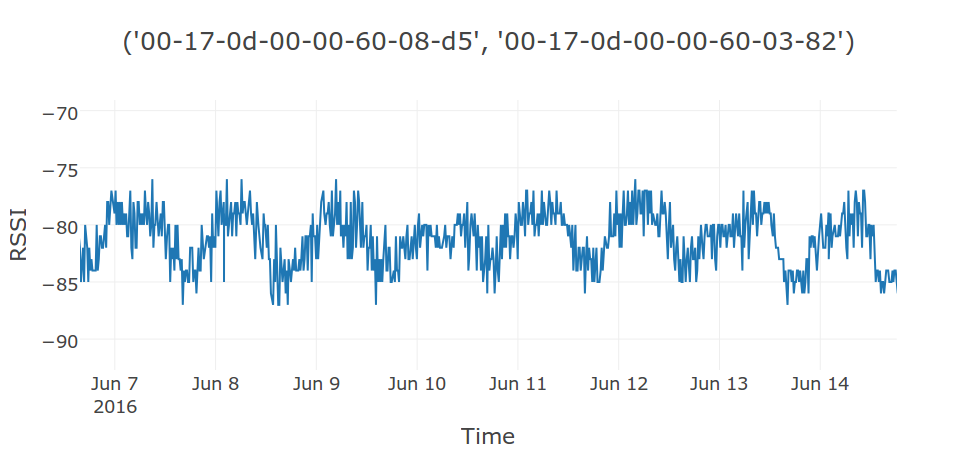
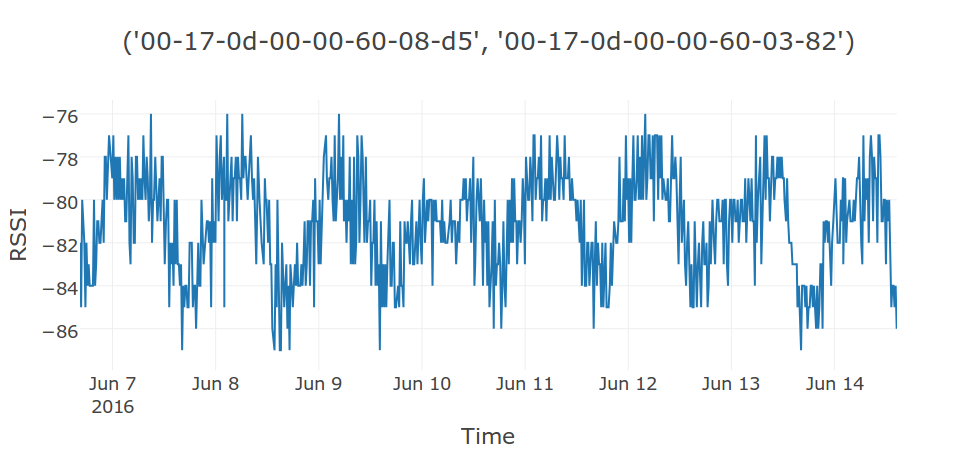
adding images and lorem

diff --git a/16chants.tex b/16chants.tex
@@ -14,7 +14,7 @@
 % reviews
 \newcommand{\thomas}[1]             {\textcolor{blue}{[Thomas] #1}}
 \newcommand{\javier}[1]             {\textcolor{purple}{[Javier] #1}}
-\newcommand{\keoma}[1]              {\textcolor{green}{[Keoma] #1}}
+\newcommand{\keoma}[1]              {\textcolor{cyan}{[Keoma] #1}}
 \newcommand{\remy}[1]               {\textcolor{yellow}{[Remy] #1}}
 \newcommand{\jonathan}[1]           {\textcolor{pink}{[Jonathan] #1}}
 
@@ -136,6 +136,7 @@ Each device sends one type of Health Report every 5~min making the complete set 
 %------------------------------------------------------------------------------
 \subsection{HR\_DEVICE}
 
+\keoma{should we actually put all the technical details here ?}
 An HR\_DEVICE message contains the following fields:
 \begin{tabular}{l|p{6cm}}
     field name      & description\\
@@ -186,7 +187,7 @@ That is, average RSSI can be 8~dBm better during the night than during the day.
 \begin{figure}
     \centering
     \includegraphics[width=\columnwidth]{periodic_rssi}
-    \caption{The average RSSI value of node 60-03-82 as received by mote 60-08-d5 over a week.}
+    \caption{The average RSSI value of node 60-03-82 as received by mote 60-08-d5 over a week. A clear day periodicity can be observed.}
     \label{fig:periodic_rssi}
 \end{figure}
 
@@ -202,13 +203,30 @@ This variation is low considering that we have 15~min sampling period.
 \begin{figure}
     \centering
     \includegraphics[width=\columnwidth]{rssi_variation}
-    \caption{The variation of average RSSI value of node 60-03-82 as received by mote 60-08-d5 over a week.}
+    \caption{The variation of average RSSI value of node 60-03-82 as received by mote 60-08-d5 over a week. Variation are small considering the 15~min sampling rate.}
     \label{fig:rssi_variation}
+\end{figure}
+
+%------------------------------------------------------------------------------
+\subsection{RSSI and Distance}
+
+\lorem
+
+\begin{figure}
+    \centering
+    \includegraphics[width=\columnwidth]{fake}
+    \caption{The famous Pister-Hack model here}
+    \label{fig:rssi_dist}
 \end{figure}
 
 %==============================================================================
 \section{PDR}
 \label{sec:pdr}
+
+% intro
+
+% PDR periodicity/patterns
+\lorem
 
 \begin{figure}
     \centering
@@ -216,6 +234,10 @@ This variation is low considering that we have 15~min sampling period.
     \caption{The PDR when node 60-08-d5 sends data to 60-03-82 over a week.}
     \label{fig:periodic_pdr}
 \end{figure}
+
+% PDR and distance
+
+\lorem
 
 \begin{figure}
     \centering
@@ -236,12 +258,23 @@ This variation is low considering that we have 15~min sampling period.
 
 \lorem
 
-%\begin{figure}
-%    \centering
-%    \includegraphics[width=\columnwidth]{periodic_rssi}
-%    \caption{The RSSI value of node 0f-66 as received by mote 03-82 over a week.}
-%    \label{fig:topology}
-%\end{figure}
+\begin{figure}
+    \centering
+    \includegraphics[width=\columnwidth]{fake}
+    \caption{Network churn here}
+    \label{fig:net_churn}
+\end{figure}
+
+% network load distribution
+
+\lorem
+
+\begin{figure}
+    \centering
+    \includegraphics[width=\columnwidth]{fake}
+    \caption{Load distribution here}
+    \label{fig:net_flows}
+\end{figure}
 
 %==============================================================================
 \section{Reliability}
@@ -251,17 +284,17 @@ This variation is low considering that we have 15~min sampling period.
 
 \lorem
 
-%\begin{figure}
-%    \centering
-%    \includegraphics[width=\columnwidth]{periodic_rssi}
-%    \caption{The RSSI value of node 0f-66 as received by mote 03-82 over a week.}
-%    \label{fig:reliability}
-%\end{figure}
+\begin{figure}
+    \centering
+    \includegraphics[width=\columnwidth]{fake}
+    \caption{The RSSI value of node 0f-66 as received by mote 03-82 over a week.}
+    \label{fig:reliability}
+\end{figure}
 
 %==============================================================================
 \section{Technology Feedbacks}
 \label{sec:technology}
-
+\keoma{is this section relevant ?}
 % intro (why is this section relevant)
 
 \lorem
@@ -278,8 +311,13 @@ This variation is low considering that we have 15~min sampling period.
 
 \lorem
 
+%==============================================================================
+\section{Conclusion}
+\label{sec:conclusion}
+
 % conclusion
 
+\lorem
 
 %==============================================================================
 
